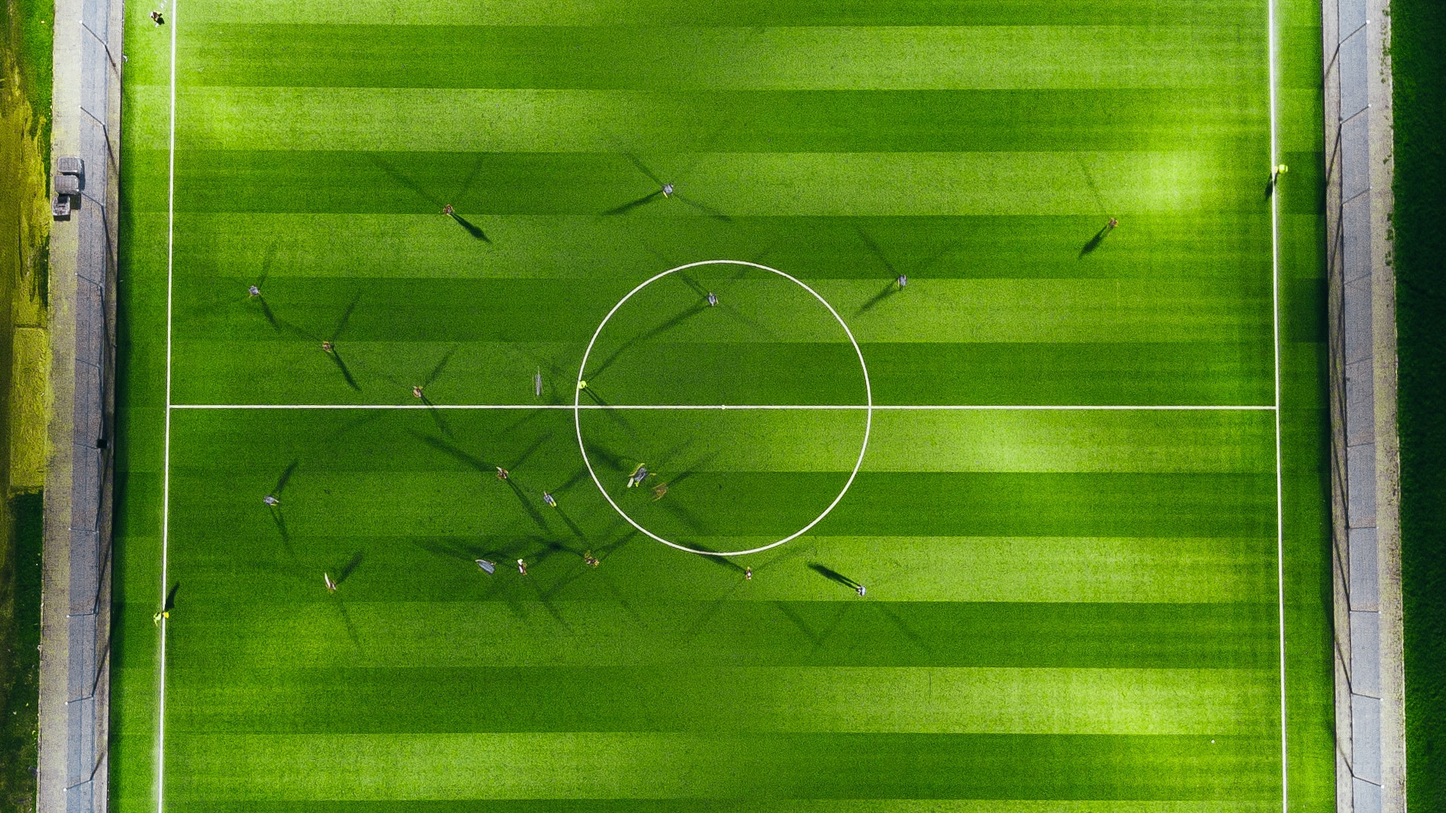
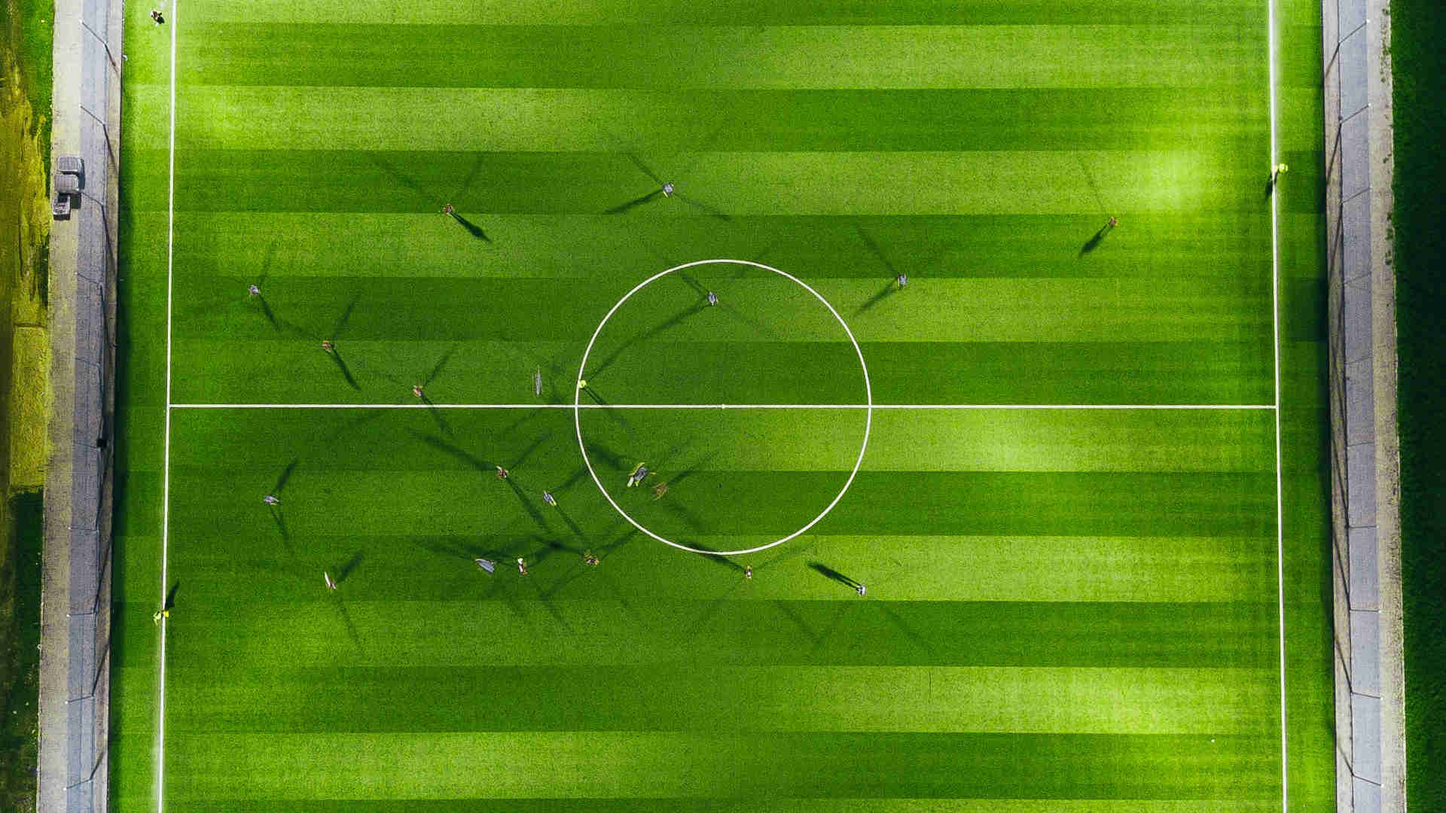
Improve readme, compress bg image

diff --git a/readme.MD b/readme.MD
@@ -1,7 +1,7 @@
 # Hashmap implementation
 
 A simple static website for hashmap implementation practice in VanillaJS.
-Try it out [here]()
+Try it out [here](https://bartewicz.github.io/hashmap-exercise/)
 
 ## How does it work
 
@@ -42,21 +42,23 @@ And methods:
 
 ## Predefault data
 
->const data = [
->  { key: 'l-gdansk', value: 'Lechia Gdańsk' },
->  { key: 'l-warszawa', value: 'Legia Warszawa' },
->  { key: 'p-gliwice', value: 'Piast Gliwice' },
->  { key: 'j-bialystok', value: 'Jagiellonia Białystok' },
->  { key: 'w-krakow', value: 'Wisła Kraków' },
->  { key: 'cracovia', value: 'KS Cracovia' },
->  { key: 'k-kielce', value: 'Korona Kielce' },
->  { key: 'l-poznan', value: 'Lech Poznań' },
->  { key: 'p-szczecin', value: 'Pogoń Szczecin' },
->  { key: 'a-gdynia', value: 'Arka Gdynia' },
->  { key: 'z-lubin', value: 'Zagłębie Lubin' },
->  { key: 's-wroclaw', value: 'Śląsk Wrocław' },
->  { key: 'w-plock', value: 'Wisła Płock' },
->  { key: 'm-legnica', value: 'Miedź Legnica' },
->  { key: 'g-zabrze', value: 'Górnik Zabrze' },
->  { key: 'z-sosnowiec', value: 'Zagłębie Sosnowiec' }
->]
+```js
+const data = [
+  { key: 'l-gdansk', value: 'Lechia Gdańsk' },
+  { key: 'l-warszawa', value: 'Legia Warszawa' },
+  { key: 'p-gliwice', value: 'Piast Gliwice' },
+  { key: 'j-bialystok', value: 'Jagiellonia Białystok' },
+  { key: 'w-krakow', value: 'Wisła Kraków' },
+  { key: 'cracovia', value: 'KS Cracovia' },
+  { key: 'k-kielce', value: 'Korona Kielce' },
+  { key: 'l-poznan', value: 'Lech Poznań' },
+  { key: 'p-szczecin', value: 'Pogoń Szczecin' },
+  { key: 'a-gdynia', value: 'Arka Gdynia' },
+  { key: 'z-lubin', value: 'Zagłębie Lubin' },
+  { key: 's-wroclaw', value: 'Śląsk Wrocław' },
+  { key: 'w-plock', value: 'Wisła Płock' },
+  { key: 'm-legnica', value: 'Miedź Legnica' },
+  { key: 'g-zabrze', value: 'Górnik Zabrze' },
+  { key: 'z-sosnowiec', value: 'Zagłębie Sosnowiec' }
+]
+```
